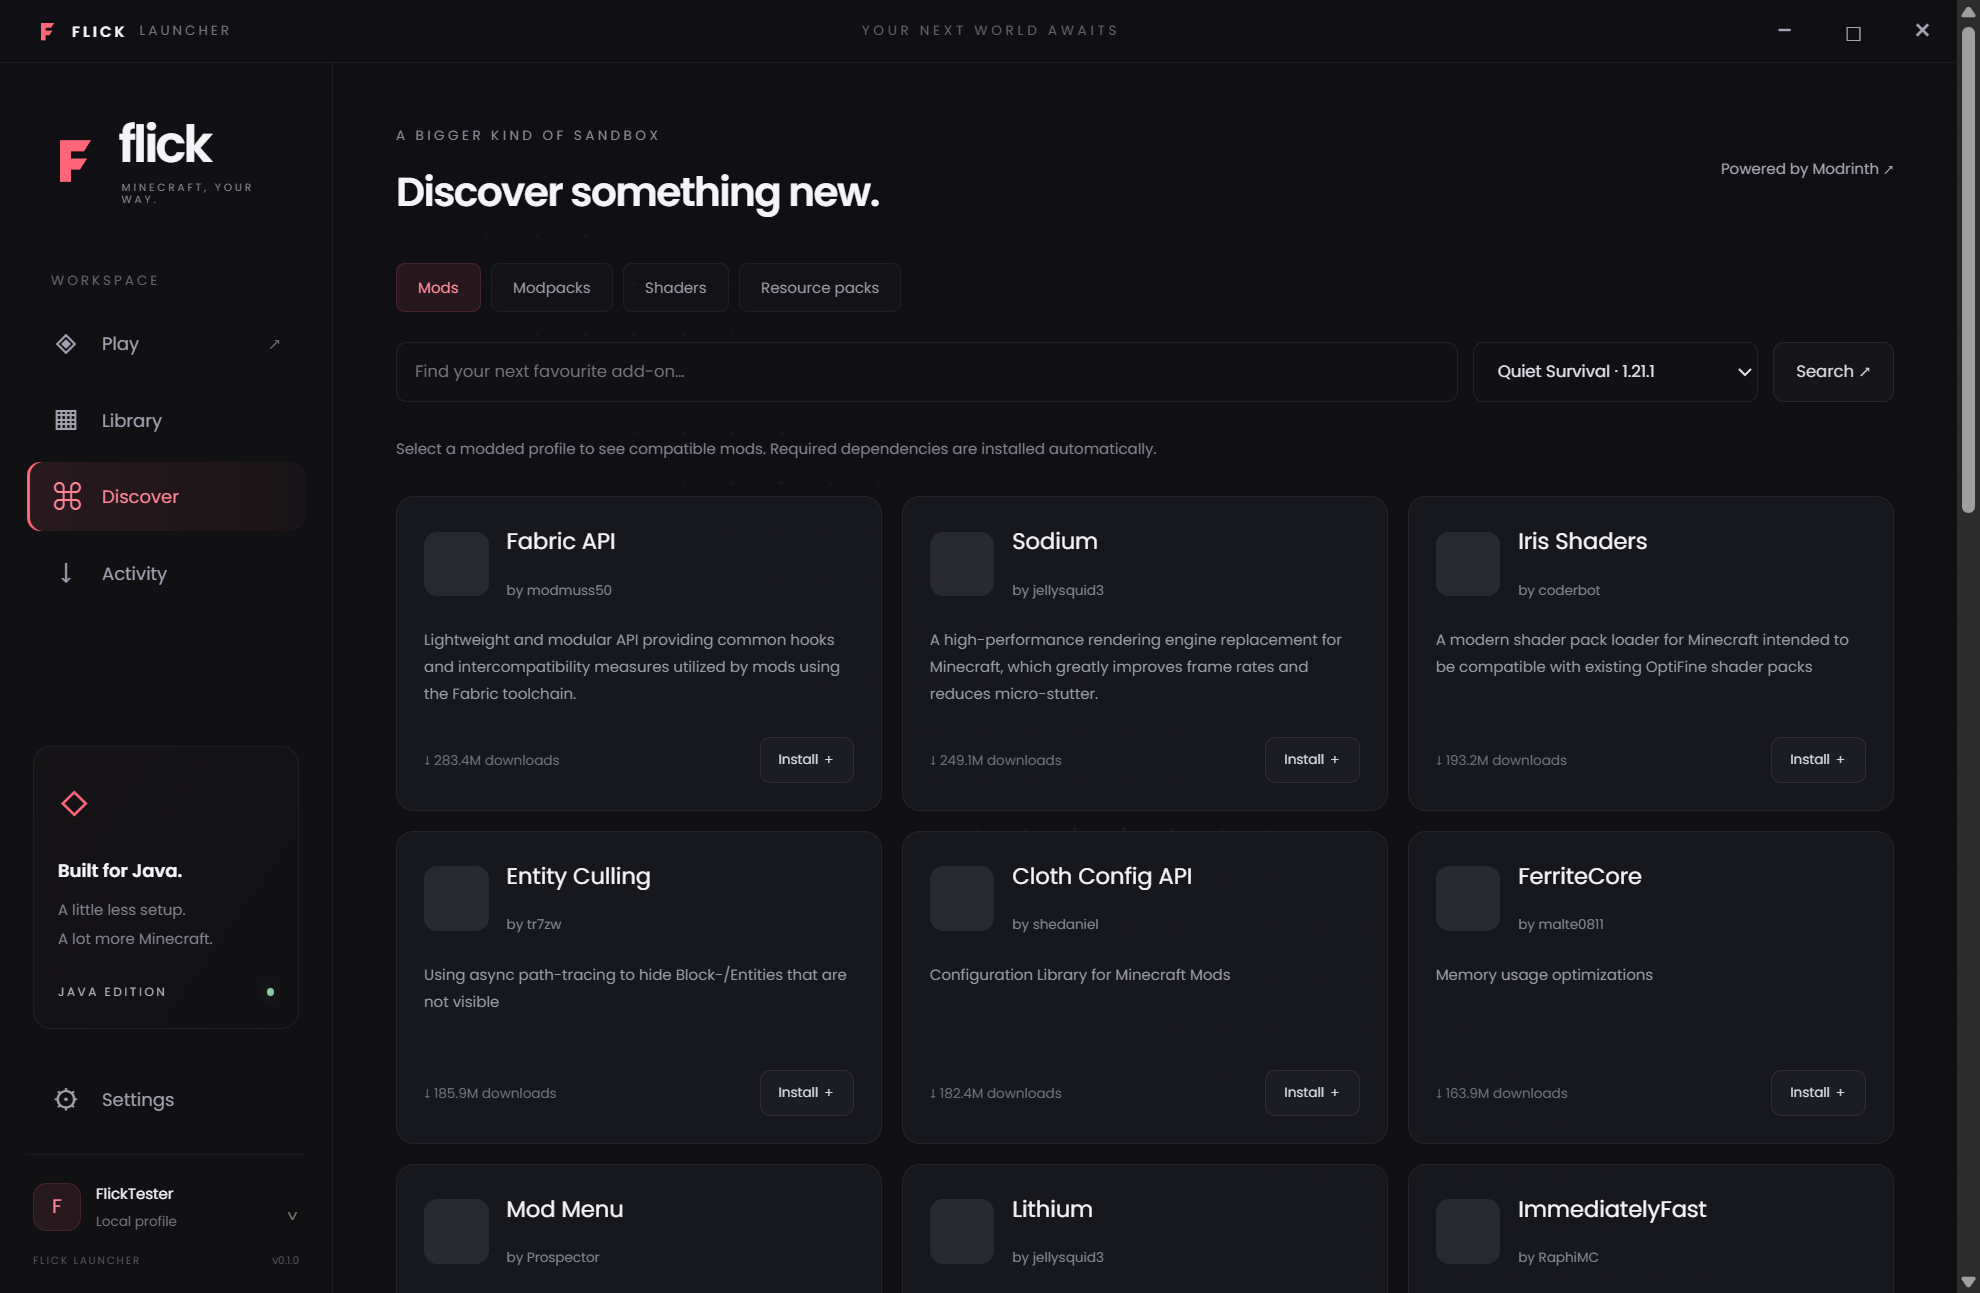
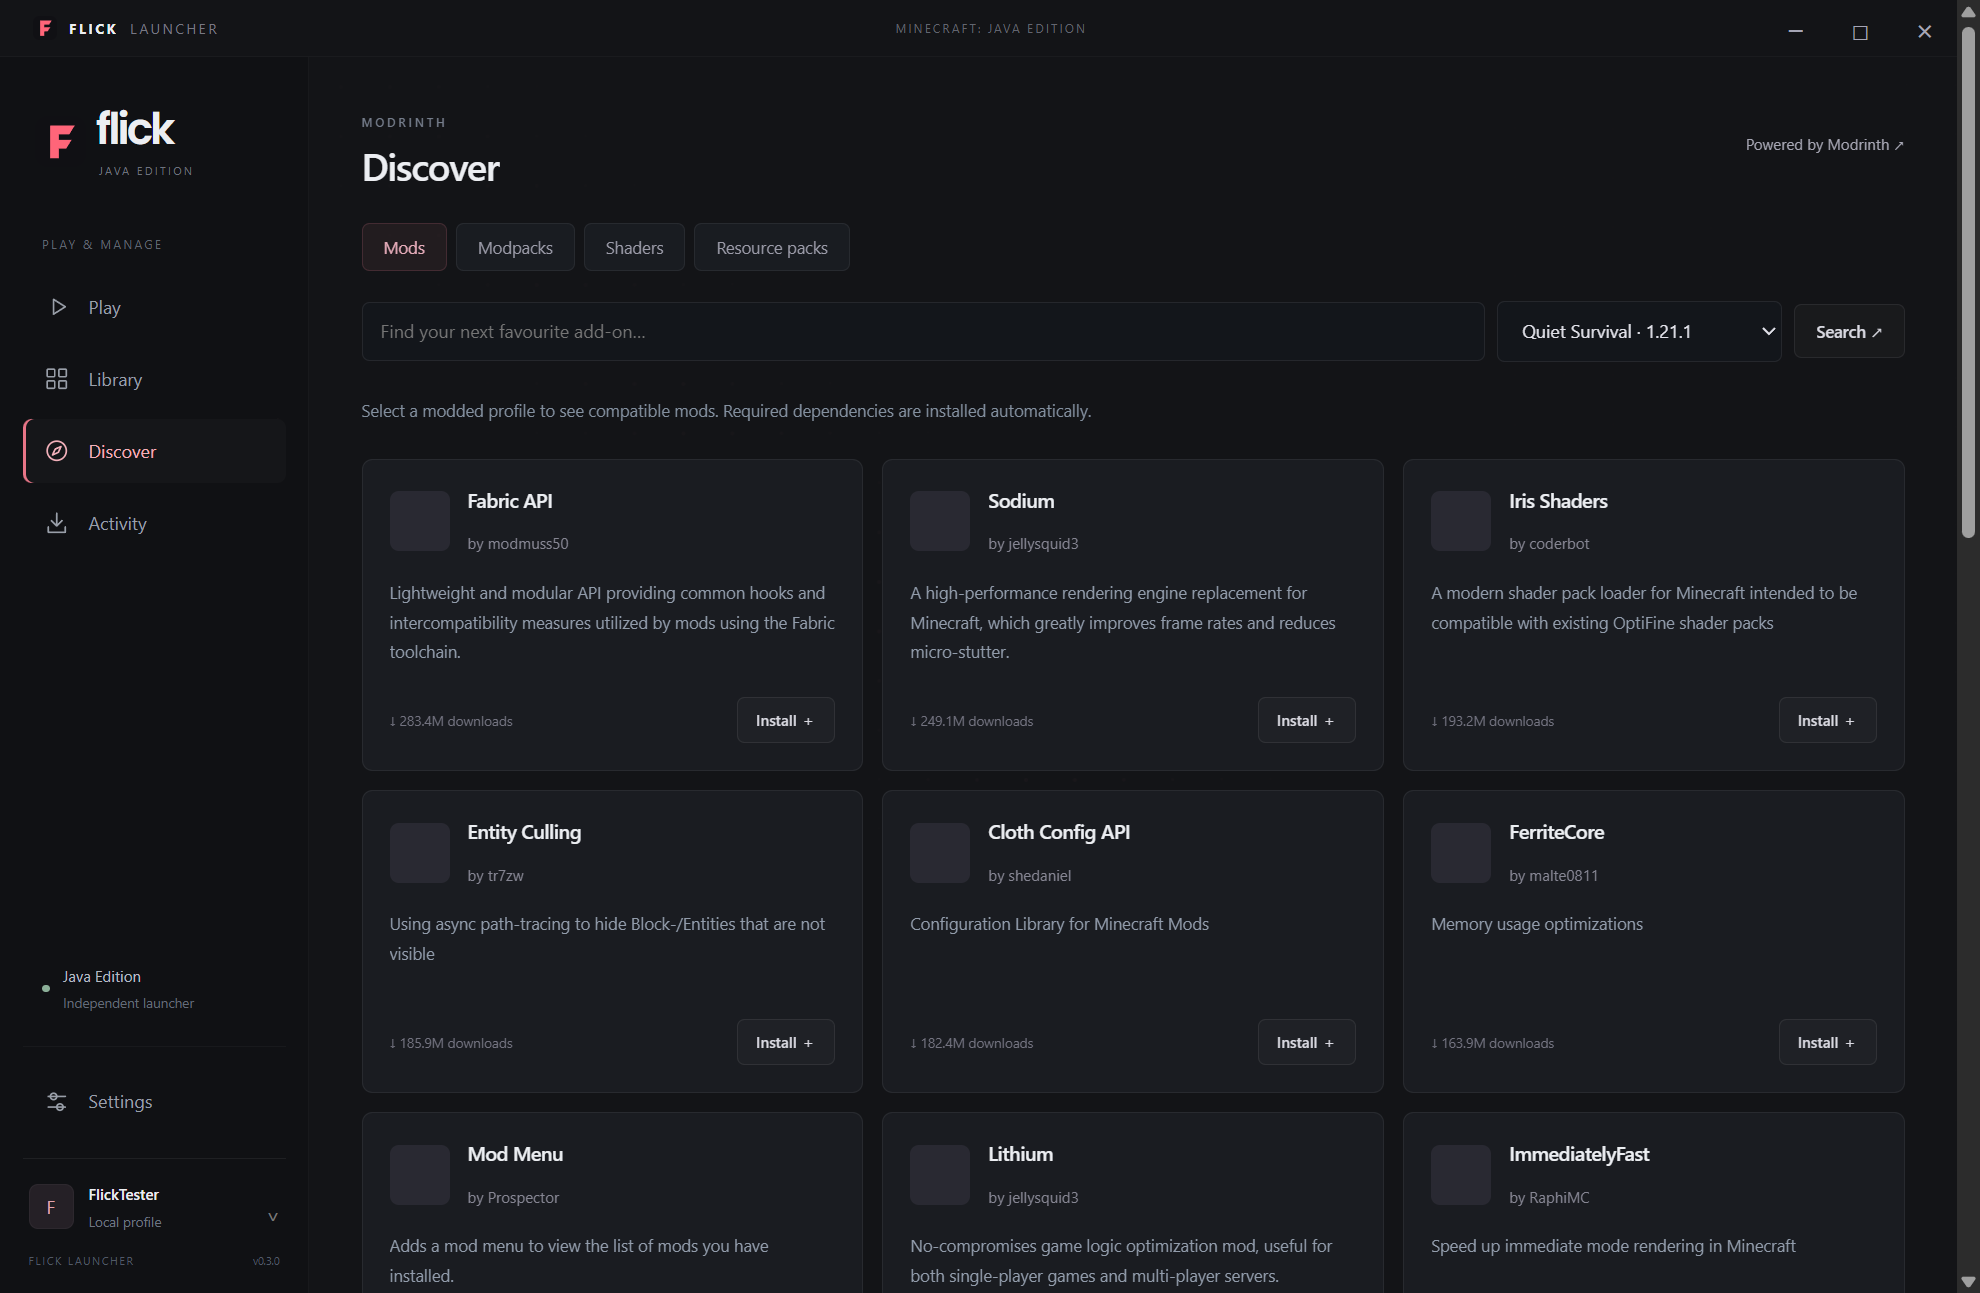
Publish 0.3 preview download and Discord activity information

diff --git a/index.html b/index.html
@@ -54,7 +54,7 @@
         <div class="hero-copy">
           <a class="status-pill" href="#development"
             ><span class="status-dot"></span> IN DEVELOPMENT
-            <span class="pill-version">PREVIEW 0.1.0</span><span>↗</span></a
+            <span class="pill-version">PREVIEW 0.3.0</span><span>↗</span></a
           >
           <p class="eyebrow">AN INDEPENDENT JAVA EDITION LAUNCHER</p>
           <h1 id="hero-heading">Less setup.<br />More <span>Minecraft.</span></h1>
@@ -63,7 +63,10 @@
             Minecraft your own.
           </p>
           <div class="hero-actions">
-            <a class="button primary" href="#inside">Take a closer look <span>↗</span></a
+            <a
+              class="button primary"
+              href="https://github.com/OskarTrzaskawka/flick-launcher-site/releases/download/v0.3.0/Flick-Launcher-Setup.exe"
+              >Download for Windows <span>&#8599;</span></a
             ><a class="text-link" href="#project">About the project <span>↓</span></a>
           </div>
           <p class="hero-footnote">
@@ -82,7 +85,7 @@
             <button
               class="image-button"
               data-image="assets/launcher-home.png"
-              data-caption="Play — Flick Launcher 0.1.0 development build"
+              data-caption="Play — Flick Launcher 0.3.0 development build"
               aria-label="Enlarge the launcher screenshot"
             >
               <img
@@ -97,7 +100,7 @@
           </div>
           <div class="image-caption">
             <span><i class="status-dot"></i> THE ACTUAL APP, NOT A MOCKUP</span
-            ><span>Flick Launcher / 0.1.0</span>
+            ><span>Flick Launcher / 0.3.0</span>
           </div>
         </div>
       </section>
@@ -259,6 +262,7 @@
               <li>Automatic Java installation on Windows x64</li>
               <li>Modrinth discovery and individual add-on installation</li>
               <li>Modrinth modpack imports and world backups</li>
+              <li>Discord activity with game version, session time and privacy controls</li>
               <li>Startup checks for Vanilla and four mod loaders on 1.21.1</li>
             </ul>
           </article>
@@ -301,8 +305,11 @@
           <details>
             <summary>Can I download it yet?<span>＋</span></summary>
             <p>
-              The current build is a local development preview. A public download has not been
-              published on this website. A release link will be added when a public build is ready.
+              Yes. The Windows x64 development preview is available from the project's
+              <a href="https://github.com/OskarTrzaskawka/flick-launcher-site/releases/tag/v0.3.0"
+                >GitHub release</a
+              >. Choose Setup to install or Portable to run without installation. Both builds are
+              unsigned and remain an early preview. Windows 7 is not supported by this build.
             </p>
           </details>
           <details>
@@ -358,7 +365,7 @@
             >
           </div>
           <div class="project-meta">
-            <span>Version 0.1.0</span><span>Java Edition</span><span>Development preview</span>
+            <span>Version 0.3.0</span><span>Java Edition</span><span>Development preview</span>
           </div>
         </div>
       </section>

diff --git a/privacy.html b/privacy.html
@@ -57,6 +57,15 @@
         in the default development build. This website does not ask for Microsoft credentials or
         tokens.
       </p>
+      <h2>Discord activity</h2>
+      <p>
+        The 0.3.0 desktop preview can communicate with the locally running Discord desktop client to
+        share launcher activity, the game version, mod loader and session time. The last detected
+        server address is included when server sharing is enabled. Activity and server sharing can
+        be turned off in Settings, including while the game is running. World names and Microsoft
+        credentials are not part of this activity. Discord processes shared activity under its own
+        policies. This website does not receive it.
+      </p>
       <h2>Contact and feedback</h2>
       <p>
         The project's GitHub repository, when linked on the home page, is the place for project

diff --git a/styles.css b/styles.css
@@ -1449,3 +1449,9 @@ html.motion-paused {
 .hero-visual {
   max-width: 100%;
 }
+
+.faq-list p a {
+  color: #edb2bf;
+  text-decoration: underline;
+  text-underline-offset: 3px;
+}
